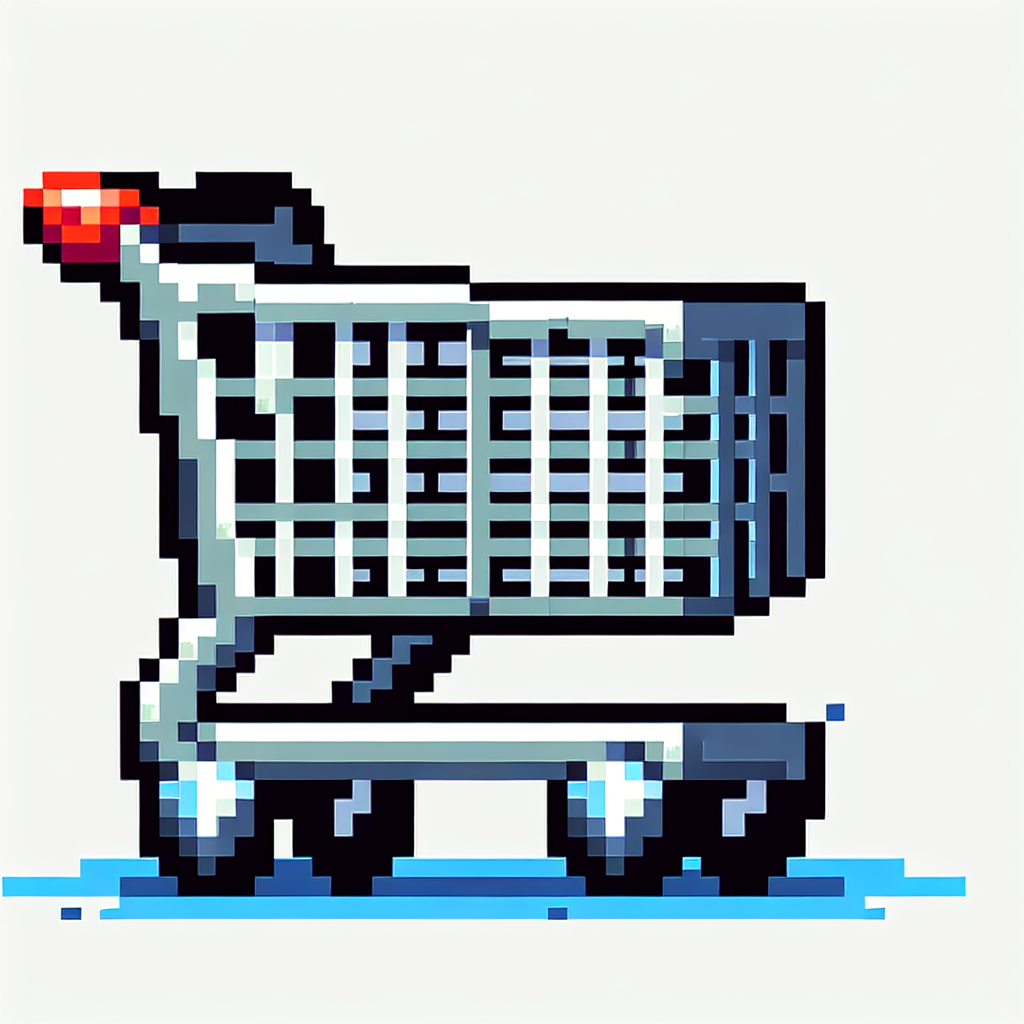
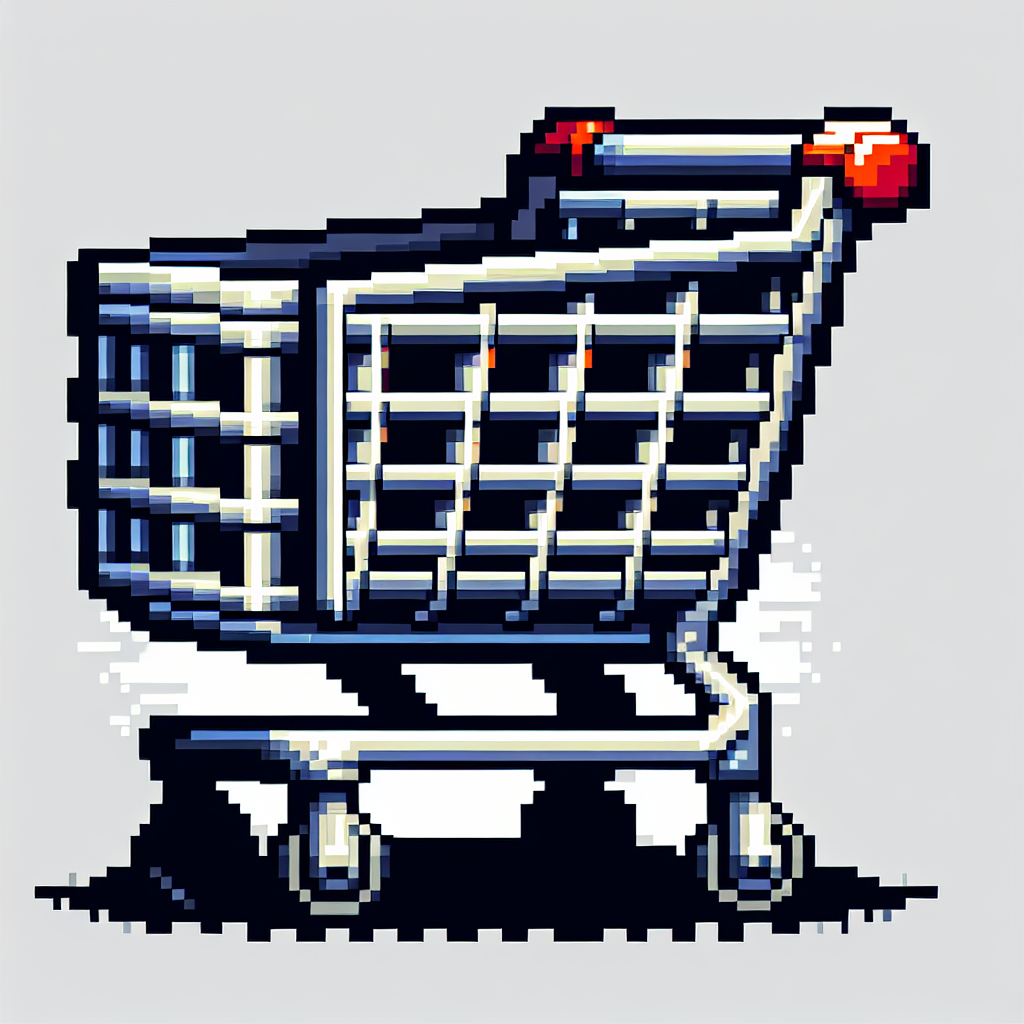
feat: Update

diff --git a/generate_images.py b/generate_images.py
@@ -122,11 +122,11 @@ PIXEL_ART_STYLE = "16-bit pixel art style, retro video game graphics, crisp pixe
 def get_character_prompt(char_name):
     """Generate appropriate prompt for each character type"""
     prompts = {
-        'player': f"SINGLE character only: A young energetic shopper in casual clothes running with a shopping cart, exactly one person, {PIXEL_ART_STYLE}, white background, isolated character sprite",
-        'grumpy_grandma': f"SINGLE character only: A grumpy elderly woman with gray hair in a pink cardigan pushing a shopping cart, frowning face, exactly one person, {PIXEL_ART_STYLE}, white background, isolated character sprite",
-        'speedy_grandpa': f"SINGLE character only: A fast elderly man with white hair in light blue clothes running with a shopping cart, determined expression, exactly one person, {PIXEL_ART_STYLE}, white background, isolated character sprite",
-        'angry_karen': f"SINGLE character only: A middle-aged woman with orange clothes and a frustrated expression pushing a shopping cart quickly, determined face, exactly one person, {PIXEL_ART_STYLE}, white background, isolated character sprite",
-        'slow_larry': f"SINGLE character only: A slow elderly man in tan/beige clothes with a shopping cart, relaxed expression, exactly one person, {PIXEL_ART_STYLE}, white background, isolated character sprite",
+        'player': f"ONE SINGLE CHARACTER ONLY - NOT TWO - JUST ONE: A young energetic shopper in casual clothes running with a shopping cart, EXACTLY ONE PERSON ALONE, solo character, {PIXEL_ART_STYLE}, transparent background, isolated individual character sprite, no other people, no background elements, single person only",
+        'grumpy_grandma': f"ONE SINGLE CHARACTER ONLY - NOT TWO - JUST ONE: A grumpy elderly woman with gray hair in a pink cardigan pushing a shopping cart, frowning face, EXACTLY ONE PERSON ALONE, solo character, {PIXEL_ART_STYLE}, transparent background, isolated individual character sprite, no other people, no background elements, single person only",
+        'speedy_grandpa': f"ONE SINGLE CHARACTER ONLY - NOT TWO - JUST ONE: A fast elderly man with white hair in light blue clothes running with a shopping cart, determined expression, EXACTLY ONE PERSON ALONE, solo character, {PIXEL_ART_STYLE}, transparent background, isolated individual character sprite, no other people, no background elements, single person only",
+        'angry_karen': f"ONE SINGLE CHARACTER ONLY - NOT TWO - JUST ONE: A middle-aged woman with orange clothes and a frustrated expression pushing a shopping cart quickly, determined face, EXACTLY ONE PERSON ALONE, solo character, {PIXEL_ART_STYLE}, transparent background, isolated individual character sprite, no other people, no background elements, single person only",
+        'slow_larry': f"ONE SINGLE CHARACTER ONLY - NOT TWO - JUST ONE: A slow elderly man in tan/beige clothes with a shopping cart, relaxed expression, EXACTLY ONE PERSON ALONE, solo character, {PIXEL_ART_STYLE}, transparent background, isolated individual character sprite, no other people, no background elements, single person only",
     }
     
     # Return specific prompt or generic one
@@ -141,9 +141,9 @@ def get_character_prompt(char_name):
 def get_item_prompt(item_name):
     """Generate appropriate prompt for each item type"""
     prompts = {
-        'coin': f"A shiny golden coin with a dollar sign, glowing effect, {PIXEL_ART_STYLE}, white background",
-        'speed_boost': f"A blue forward arrow icon with speed lines, glowing effect, power-up icon, {PIXEL_ART_STYLE}, white background",
-        'energy_drink': f"A red energy drink can with lightning bolt symbol, {PIXEL_ART_STYLE}, white background",
+        'coin': f"A shiny golden coin with a dollar sign, glowing effect, {PIXEL_ART_STYLE}, transparent background, no background elements",
+        'speed_boost': f"A blue forward arrow icon with speed lines, glowing effect, power-up icon, {PIXEL_ART_STYLE}, transparent background, no background elements",
+        'energy_drink': f"A red energy drink can with lightning bolt symbol, {PIXEL_ART_STYLE}, transparent background, no background elements",
     }
     
     if item_name in prompts:
@@ -151,22 +151,22 @@ def get_item_prompt(item_name):
     else:
         # Generic fallback
         item_display = item_name.replace('_', ' ').title()
-        return f"A {item_display} collectible item, {PIXEL_ART_STYLE}, white background"
+        return f"A {item_display} collectible item, {PIXEL_ART_STYLE}, transparent background, no background elements"
 
 
 def get_ui_prompt(ui_element):
     """Generate appropriate prompt for UI elements"""
     prompts = {
-        'cart_obstacle': f"A gray metal shopping cart obstacle, {PIXEL_ART_STYLE}, white background",
-        'victory': f"A golden trophy with confetti and stars, epic victory celebration banner, bright cheerful colors, {PIXEL_ART_STYLE}",
-        'defeat': f"A sad face with dark clouds, game over screen element, somber colors, {PIXEL_ART_STYLE}",
+        'cart_obstacle': f"A gray metal shopping cart obstacle, {PIXEL_ART_STYLE}, transparent background, no background elements",
+        'victory': f"A golden trophy with confetti and stars, epic victory celebration banner, bright cheerful colors, {PIXEL_ART_STYLE}, transparent background",
+        'defeat': f"A sad face with dark clouds, game over screen element, somber colors, {PIXEL_ART_STYLE}, transparent background",
     }
     
     if ui_element in prompts:
         return prompts[ui_element]
     else:
         element_display = ui_element.replace('_', ' ').title()
-        return f"A {element_display} UI element, {PIXEL_ART_STYLE}"
+        return f"A {element_display} UI element, {PIXEL_ART_STYLE}, transparent background"
 
 
 def main():

diff --git a/main.py b/main.py
@@ -310,15 +310,8 @@ class MamitraxGame:
 
     def spawn_obstacles(self):
         """Spawn obstacles like shelves and carts"""
-        for x in range(800, FINISH_LINE, 800):  # Reduced frequency: 400 -> 800
-            # Shopping cart obstacle
-            obstacle = pygame.Rect(
-                x + random.randint(-100, 100),
-                self.ground_y - 40,
-                50,
-                40
-            )
-            self.obstacles.append(obstacle)
+        # No obstacles - removed for cleaner gameplay
+        pass
 
     def handle_input(self):
         """Handle player input"""
@@ -368,6 +361,15 @@ class MamitraxGame:
             if rival.on_ground and random.random() < 0.02:
                 rival.velocity_y = JUMP_POWER
                 rival.on_ground = False
+            
+            # Random speed boost (1.5x for 2-4 seconds)
+            if rival.on_ground and random.random() < 0.008:  # ~0.8% chance per frame
+                rival.speed = rival.base_speed * 1.5
+                # Speed will reset after a random duration (handled below)
+            
+            # Occasionally reset speed back to base
+            if rival.speed > rival.base_speed and random.random() < 0.005:  # 0.5% chance to reset
+                rival.speed = rival.base_speed
             
             # Apply physics to rival
             self.apply_physics(rival)
@@ -429,12 +431,6 @@ class MamitraxGame:
                     self.trap_start_time = pygame.time.get_ticks()
                     self.player.speed = max(self.player.base_speed * 0.3, 1.5)  # 30% speed
         
-        # Check collision with obstacles (slows you down)
-        for obstacle in self.obstacles:
-            if player_rect.colliderect(obstacle):
-                self.player.speed = max(self.player.base_speed - 2, 2)
-                self.player.x -= 5  # Push back a bit
-
     def check_win_condition(self):
         """Check if player reached the finish line"""
         if self.player.x >= FINISH_LINE:
@@ -447,8 +443,14 @@ class MamitraxGame:
 
     def draw_background(self):
         """Draw the supermarket with big signage"""
-        # Simple ceiling
-        self.screen.fill((240, 240, 245))
+        # Sky gradient background (light blue at top, lighter at bottom)
+        for y in range(0, self.ground_y, 5):
+            progress = y / self.ground_y
+            # Light blue at top fading to very light blue
+            r = int(135 + 100 * progress)
+            g = int(206 + 44 * progress)
+            b = int(235 + 15 * progress)
+            pygame.draw.rect(self.screen, (r, g, b), (0, y, SCREEN_WIDTH, 5))
         
         # Big supermarket name and promo texts in the background
         text_spacing = 800
@@ -517,7 +519,7 @@ class MamitraxGame:
             pygame.draw.rect(self.screen, (255, 255, 240), (x + 40, 30, 120, 40), border_radius=5)
             pygame.draw.rect(self.screen, (220, 220, 200), (x + 40, 30, 120, 40), 2, border_radius=5)
         
-        # Simple floor - clean checkerboard
+        # Shiny supermarket floor - alternating tiles with shine effect
         tile_width = 80
         tile_height = SCREEN_HEIGHT - self.ground_y
         
@@ -525,12 +527,20 @@ class MamitraxGame:
             world_x = x + self.camera_x
             is_dark = (int(world_x) // tile_width) % 2 == 0
             
-            # Simple floor colors
-            base_color = (230, 230, 230) if is_dark else (245, 245, 245)
+            # Darker, more contrasting floor colors (beige/cream tones)
+            base_color = (200, 185, 160) if is_dark else (220, 205, 180)
             
             # Draw tile
             pygame.draw.rect(self.screen, base_color, (x, self.ground_y, tile_width, tile_height))
-            pygame.draw.rect(self.screen, (200, 200, 200), (x, self.ground_y, tile_width, tile_height), 1)
+            
+            # Grout lines (darker brown)
+            pygame.draw.rect(self.screen, (120, 100, 80), (x, self.ground_y, tile_width, tile_height), 2)
+            
+            # Shine effect (subtle white highlight on upper portion)
+            shine_rect = pygame.Rect(x + 5, self.ground_y + 5, tile_width - 10, tile_height // 3)
+            shine_surface = pygame.Surface((tile_width - 10, tile_height // 3), pygame.SRCALPHA)
+            pygame.draw.rect(shine_surface, (255, 255, 255, 20), (0, 0, tile_width - 10, tile_height // 3))
+            self.screen.blit(shine_surface, shine_rect)
         
         # Fruit stands and special displays (foreground layer)
         stand_spacing = 600
@@ -1002,9 +1012,6 @@ class MamitraxGame:
                 # Drawing
                 self.draw_background()
                 
-                # Draw obstacles
-                self.draw_obstacles()
-                
                 # Draw traps
                 for trap in self.traps:
                     self.draw_trap(trap)
@@ -1030,7 +1037,6 @@ class MamitraxGame:
             else:
                 # Draw game over screen
                 self.draw_background()
-                self.draw_obstacles()
                 for rival in self.rivals:
                     self.draw_racer(rival)
                 self.draw_racer(self.player)
